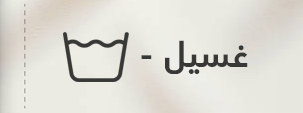
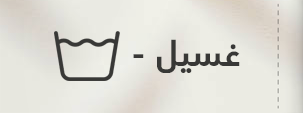
clothes care is complete

diff --git a/ClothesCare.php b/ClothesCare.php
@@ -4,10 +4,9 @@
 	<title>Rakez - Clothes Care</title>
   <meta charset="UTF-8">
   <meta name="description" content="">
-<script src="btn.js"></script>
-  <link rel="stylesheet" type="text/css" href="mainStyle.css">
+<script src="common.js"></script>
+  <link rel="stylesheet" type="text/css" href="cmnStyle.css">
   <link rel="stylesheet" type="text/css" href="tableStyle.css">
-  <link rel="stylesheet" type="text/css" href="cmnStyle.css">	
 
   <style>
 		
@@ -21,12 +20,13 @@
 }
 /**footer**/
 .sectionFour{
-  height: 120px;
+  height:50px;
   width: 100%;
 } 
 #label{
   margin-top: 30px;
-  margin-bottom: 10px;
+  margin-bottom: 20px;
+  float: right;
 }
  #logo{
     display: block;
@@ -106,6 +106,13 @@
   margin-bottom: 20px;
 }
 
+#footer{
+  text-align: center !important;
+   font-family: 'Questv1';
+   font-size: 20px;
+    color:#383836;
+    margin-top: 40px;
+}
 p {cursor: pointer;}
 p:hover {color: #87c6bd;}
 
@@ -122,7 +129,7 @@ a {text-decoration: none;}
        <ul id="menu">
            <li><a href="home.html">الرئيسية</a></li>
            <li class="divline"></li>
-           <li><a href="#">جِد مقاسي</a></li>
+           <li><a href="#">جد مقاسي</a></li>
            <li class="divline"></li>
            <li><a href="care.html">العناية</a></li>
            <li class="divline"></li>
@@ -138,7 +145,7 @@ a {text-decoration: none;}
      </div> 
   <div class=sectionTwo> 
 <div class=bleachlbl>  
-      <img src="images/label-1.png" alt="label" id=label>
+      <img src="images/label1.png" alt="label" id=label>
     <div class=labelBg id=label-1Bg>
        <div class= sec1Container id=sec>
           <div class=imgContainer><img src="images/bleach.png" ></div> 
@@ -188,19 +195,16 @@ a {text-decoration: none;}
       <div class=txtContainer><p>التجفيف في الظل ــــــ</p></div> </div>  
        <div class= sec3Container id=sec> <div class=imgContainer><img src="images/do-not-dry.png" ></div>
         <div class=txtContainer><p>لا تجفف ــــــ</p></div>              
-        </div></div> 
-
-
-
-        
-       
+        </div></div>   
     
    </div>
   <div class=sectionThree></div>
-   <div class=sectionFour>
-     <!--Footer-->
-   </div>
-       </div>
+    <div class=sectionFour>
+         <!--footer-->
+       <p id=footer>   © كل الحقوق محفوظة , 2020 </p>
+           </div>
 
+       </div>
+<!--all icons credit goes to https://www.flaticon.com/ -->
 </body>
 </html>
